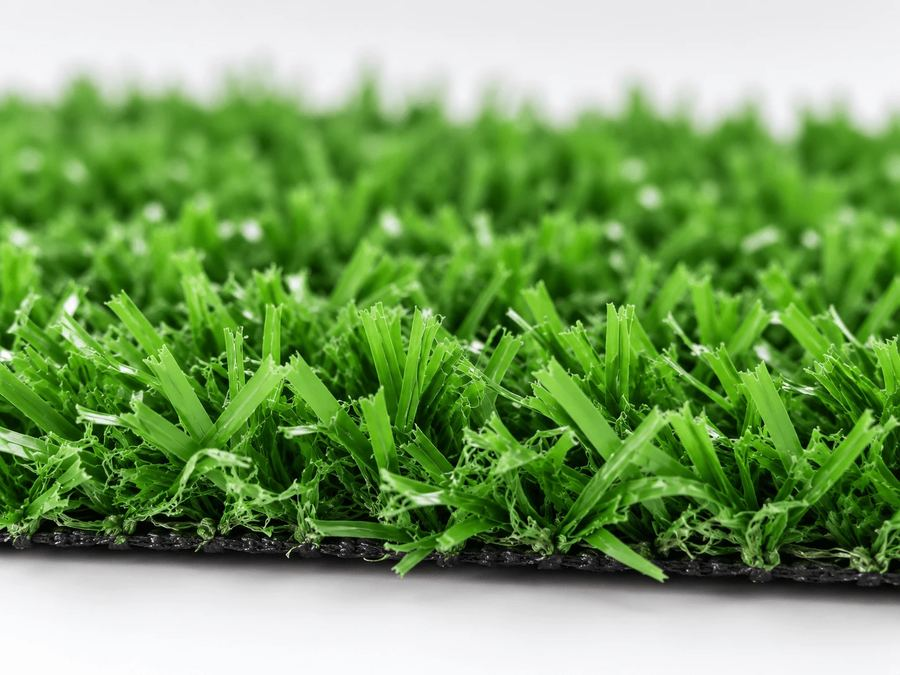
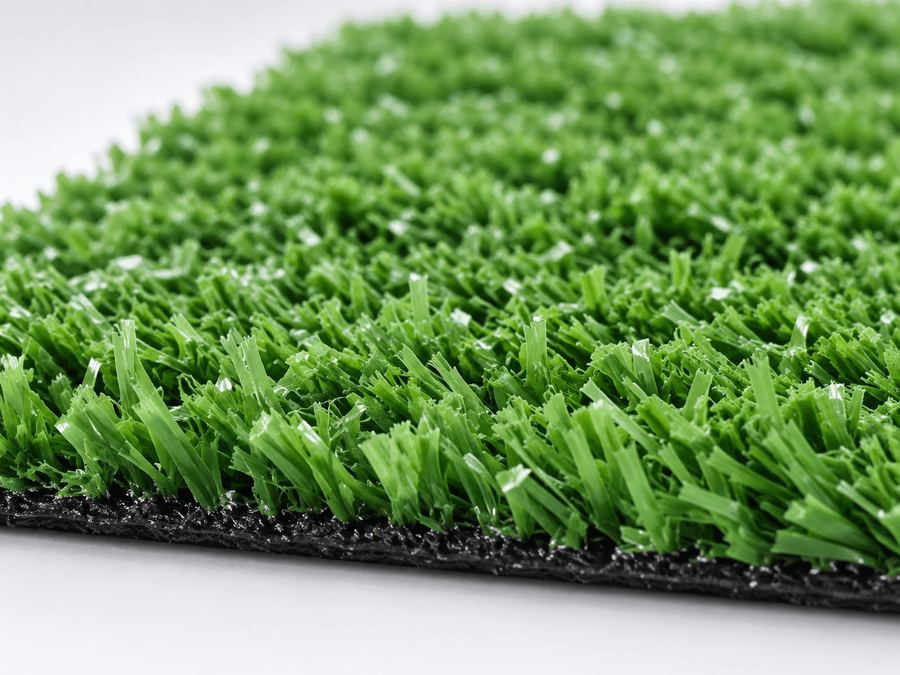
Corrige as fibras de 12 mm e 20 mm, que estavam trocadas
Eu deduzi qual close era de 12 mm e qual era de 20 mm pela altura
aparente das fibras na foto. Errei: o que o site publicava como 12 mm é,
na pasta do cliente, FIBRAS - FIO GRAMA 20mm, e vice-versa. Conferido
por comparação pixel a pixel contra os arquivos originais — diferença
média de ~1,9 de 255 nos pares corretos contra ~47 nos que estavam
publicados. A Real 30 mm sempre esteve certa, identificada sem dúvida
pelos fios cor de palha.

A correção troca os arquivos em assets/fotos/, e não os nomes em
dados.py. Apontar o modelo de 12 mm para um arquivo chamado
fibra-20mm.webp funcionaria igual, mas deixaria o descasamento entre
nome e conteúdo — que é o tipo de armadilha que produziu esse erro.
Agora o nome do arquivo bate com o que ele mostra.

A origem fica registrada em dados.py, para ninguém "corrigir" de volta
ao comparar com uma versão antiga do site.

Claude-Session: https://claude.ai/code/session_016w4XtwJnPdUgSU4JPXZ8Qa

diff --git a/build/dados.py b/build/dados.py
@@ -65,6 +65,12 @@ PERGUNTAS = [
 ]
 
 # O catálogo real: três alturas, não três "linhas" por aplicação.
+#
+# Os arquivos de fibra em assets/fotos/ foram trocados em out/2026: o que
+# estava publicado como 12 mm era, na pasta do cliente, FIBRAS - FIO GRAMA
+# 20mm, e vice-versa. Conferido por comparação pixel a pixel contra a pasta
+# (diferença média ~1,9 de 255 nos pares certos, ~47 nos trocados). A Real
+# 30 mm sempre esteve correta. Hoje o nome do arquivo bate com o conteúdo.
 MODELOS = [
  dict(
   slug="grama-12mm", nome="12 mm", altura="12 mm", garantia="3 meses", foto="fibra-12mm",
